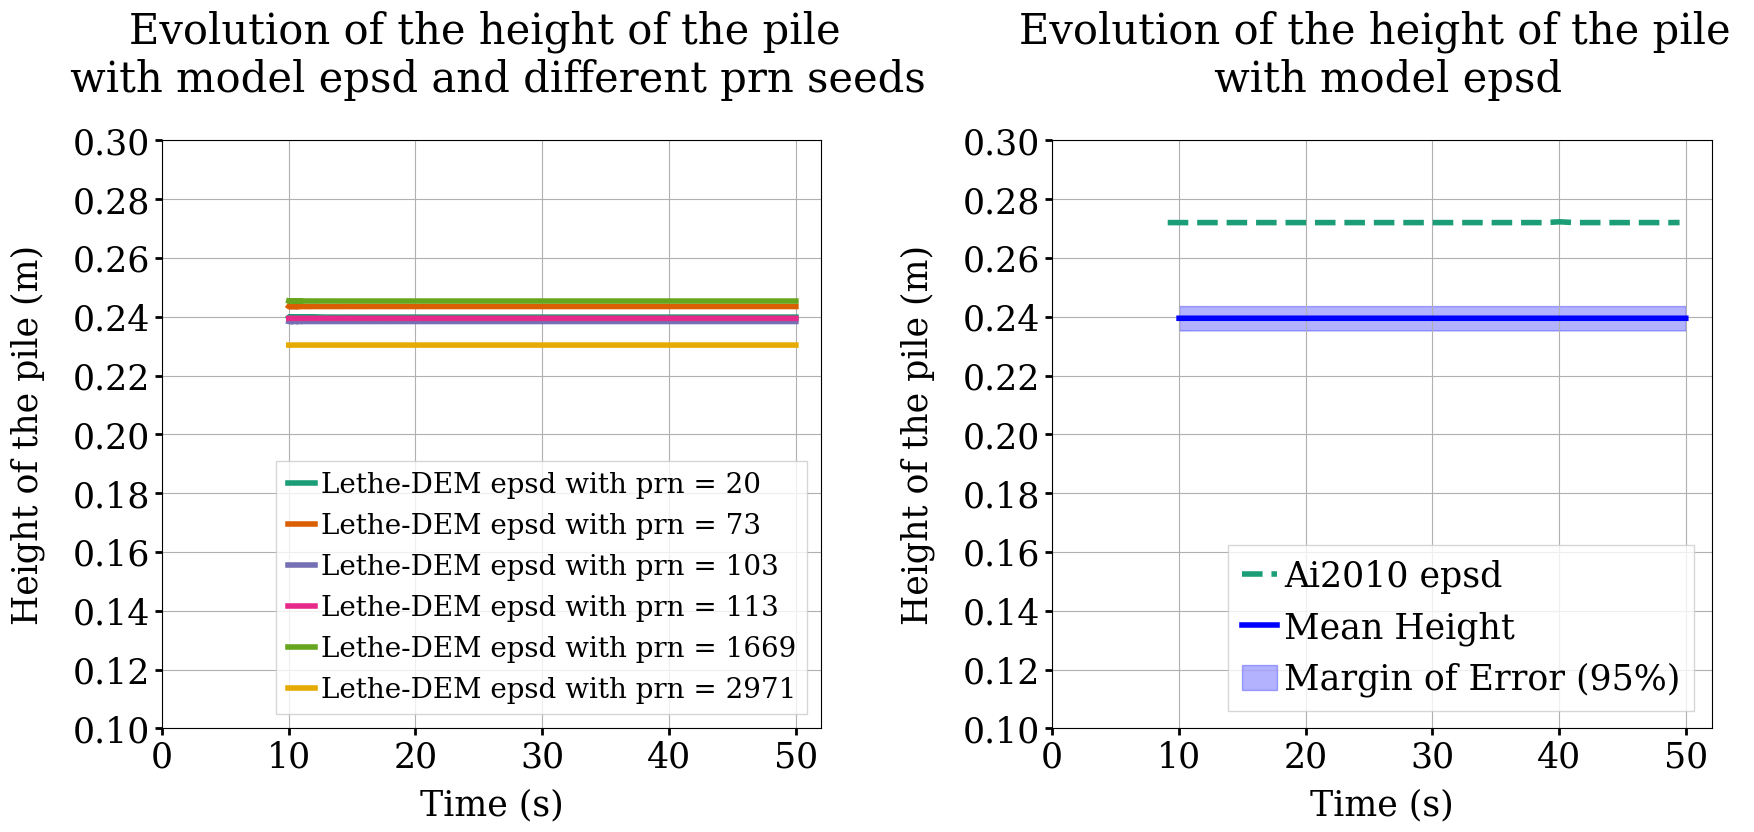
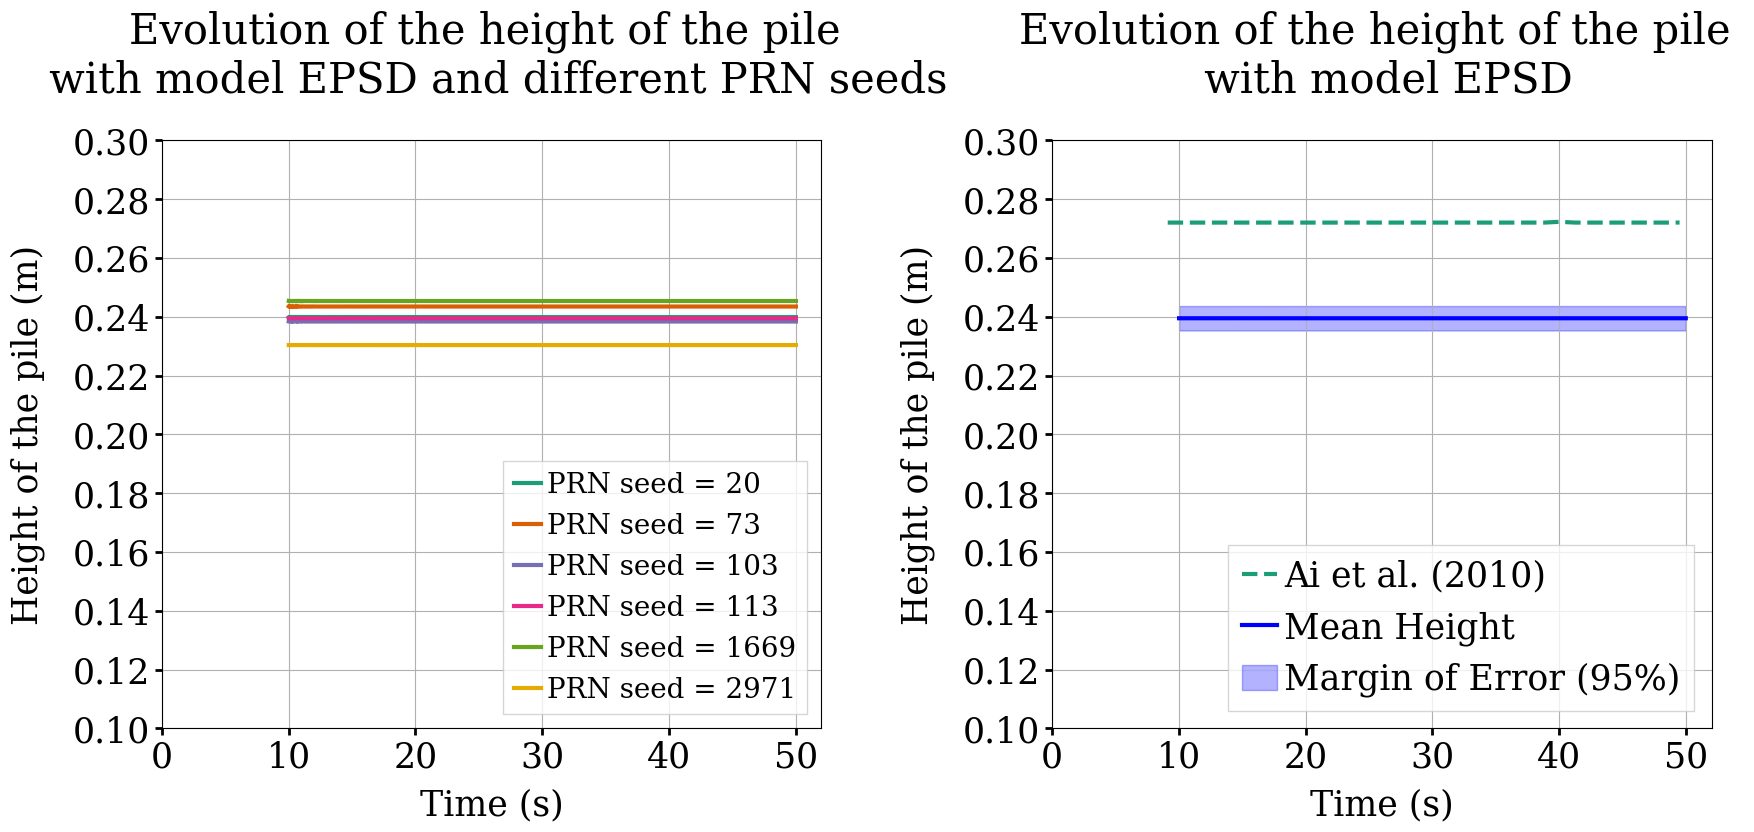
fix doc with comments

diff --git a/examples/dem/2d-sandpile-formation/sandpile-height-comparison.py b/examples/dem/2d-sandpile-formation/sandpile-height-comparison.py
@@ -17,8 +17,8 @@ plt.rcParams['lines.markeredgewidth'] = 2
 plt.rcParams['legend.fancybox'] = False
 plt.rcParams['font.size'] = 20
 plt.rcParams['font.family']='DejaVu Serif'
-plt.rcParams['legend.handlelength']=1.3
-plt.rcParams['lines.linewidth'] = 2
+plt.rcParams['legend.handlelength']=2
+plt.rcParams['lines.linewidth'] = 3
 
 ######################################################################
 

diff --git a/examples/dem/2d-sandpile-formation/sandpile-postprocessing.py b/examples/dem/2d-sandpile-formation/sandpile-postprocessing.py
@@ -17,8 +17,8 @@ plt.rcParams['lines.markeredgewidth'] = 2
 plt.rcParams['legend.fancybox'] = False
 plt.rcParams['font.size'] = 20
 plt.rcParams['font.family']='DejaVu Serif'
-plt.rcParams['legend.handlelength']=1.5
-plt.rcParams['lines.linewidth'] = 2
+plt.rcParams['legend.handlelength']=2
+plt.rcParams['lines.linewidth'] = 3
 
 ######################################################################
 

diff --git a/doc/source/examples/dem/sandpile-formation/sandpile-formation.rst b/doc/source/examples/dem/sandpile-formation/sandpile-formation.rst
@@ -3,7 +3,7 @@ Sandpile Formation
 ==================================
 
 This example simulates the formation of a sandpile using the discrete element method (DEM). 
-The simulation is based on the simulation of J. Ai *et al.* [#Ai2010]_, meant to reproduce the 2D photoelastic sandpile experiments led by Zuriguel *et al.* [#Zuriguel2007]_.
+It is based on the simulation of Ai *et al.* [#Ai2010]_, meant to reproduce the 2D photoelastic sandpile experiments led by Zuriguel *et al.* [#Zuriguel2007]_.
 More information regarding the DEM parameters is given in the Lethe documentation, i.e. `DEM parameters <../../../parameters/dem/dem.html>`_.
 
 
@@ -15,7 +15,7 @@ Features
 - Two-dimensional problem
 - Bi-dispersed particles
 - Floating Wall
-- Postprocessing using `Python <https://www.python.org/>`_, `PyVista <https://docs.pyvista.org/>`_, `lethe_pyvista_tools <https://github.com/chaos-polymtl/lethe/tree/master/contrib/postprocessing>`_, and `ParaView <https://www.paraview.org/>`_.
+- Post-processing using `Python <https://www.python.org/>`_, `PyVista <https://docs.pyvista.org/>`_, `lethe_pyvista_tools <https://github.com/chaos-polymtl/lethe/tree/master/contrib/postprocessing>`_, and `ParaView <https://www.paraview.org/>`_.
 
 
 ----------------------------
@@ -27,16 +27,16 @@ All files mentioned below are located in the example's folder (``examples/dem/2d
 - Geometry file: ``sandpile.geo``
 - Mesh file: ``sandpile.msh``
 - Parameters file: ``sandpile.prm``
-- Postprocessing Python script: ``sandpile-postprocessing.py``
+- Post-processing Python script: ``sandpile-postprocessing.py``
 
 
 -----------------------
 Description of the Case
 -----------------------
 
-In the first stage of the simulation (0-4.5s), particles are filled into the hopper. 
-Then, at 4.5s, particles are discharged through a narrow channel onto a flat surface where a pile is formed.
-We compare the evolution of the height of the pile for the different rolling resistance models with the results obtained by J. Ai *et al.* [#Ai2010]_.
+In the first stage of the simulation (:math:`0-4.5` s), particles are filled into the hopper. 
+Then, at :math:`4.5` s, particles are discharged through a narrow channel onto a flat surface where a pile is formed.
+We compare the evolution of the height of the pile for the different rolling resistance models with the results obtained by Ai *et al.* [#Ai2010]_.
 The angle of repose is also calculated, so as to be compared to the one from the experiment conducted by Zuriguel *et al.* [#Zuriguel2007]_.
 We expect that the Elastic-Plastic Spring-Dashpot model will give closer results to the height and angle from the experiment than the viscous model or the constant torque model. Indeed, the constant torque model produces an oscillation that can prevent the pile from reaching a stable state and the viscous model is not adapted here as the viscous effects are not sufficient to stabilize the pile at its real height.
 
@@ -72,26 +72,25 @@ The geometry follows the one used by Zuriguel *et al.* [#Zuriguel2007]_ and the 
 
   The mesh can be generated using the following line:
 
-   .. code-block:: bash
-      :class: copy-button
+  .. code-block:: text
+    :class: copy-button
 
-      gmsh -2 sandpile.geo
-
+    gmsh -2 sandpile.geo
 
 
 Lagrangian Physical Properties
 ~~~~~~~~~~~~~~~~~~~~~~~~~~~~~~
 
-The 3000 particles are bi-dispersed, with 2500 having a diameter of 6.9 mm and 500 having a diameter of 8.9 mm.
+The :math:`3000` particles are bi-dispersed, with :math:`2500` having a diameter of :math:`6.9` mm and :math:`500` having a diameter of :math:`8.9` mm.
 
-The following properties are chosen according to the J. Ai *et al.* paper:
+The following properties are chosen according to the Ai *et al.* paper:
 
-* Custom distribution of disks with 70% of disks with a 6.9 mm diameter and 30% with an 8.9 mm diameter
-* Density (1056 :math:`kg/m^3`)
-* Young's modulus (4 MPa)
-* Poisson's ratio (0.49)
-* Friction coefficient of particle-particle (0.8)
-* Rolling resistance coefficient of particle-particle (0.3)
+* Custom distribution of disks with :math:`70%` of disks with a :math:`6.9` mm diameter and :math:`30%` with an :math:`8.9` mm diameter
+* Density (:math:`1056\;\text{kg}/\text{m}^3`)
+* Young's modulus (:math:`4` MPa)
+* Poisson's ratio (:math:`0.49`)
+* Friction coefficient of particle-particle (:math:`0.8)``
+* Rolling resistance coefficient of particle-particle (:math:`0.3`)
 
 The same properties were given to the wall as they were not specified in the original article.
 
@@ -121,7 +120,7 @@ The same properties were given to the wall as they were not specified in the ori
 
 .. note::
 
-  Only the value of the restitution coefficient was not given in the reference paper.
+  Only the value of the restitution coefficient was not given in the reference paper but it did not impact much the height of the pile.
 
 
 Model Parameters
@@ -144,8 +143,8 @@ Model Parameters
 
 .. note::
 
-  Only when the Elastic-Plastic Spring-Dashpot (epsd) rolling resistance model is selected should f be specified (f=0 here).
-  More information regarding the DEM Model parameters is given in the Lethe documentation, i.e. `DEM Model Parameters <../../../parameters/dem/model_parameters.html>`_.
+  Only when the EPSD rolling resistance model is selected should the ``f coefficient`` be specified (``f coefficient = 0.0`` here).
+  More information regarding the DEM model parameters is given in the Lethe documentation, i.e. `DEM Model Parameters <../../../parameters/dem/model_parameters.html>`_.
 
 Particle Insertion
 ~~~~~~~~~~~~~~~~~~
@@ -166,7 +165,7 @@ Particles are inserted in an insertion box in the upper part of the hopper. In t
 
 .. note::
 
-  Due partly to the bi-dispersed particle size distribution, changing the prn seed to a different value can lead to different results since it changes the initial configuration of the particles.
+  Due partly to the bi-dispersed particle size distribution, changing the ``prn seed`` to a different value can lead to different results since it changes the initial configuration of the particles.
 
 
 Simulation Control
@@ -186,15 +185,15 @@ The simulation runs for 50 seconds of real time. We output the simulation result
 
 .. note::
 
-  To compare with the results of J.Ai *et al.*, the end time should be set at 50 s or at least 35 s to see the progression of the curve. 
+  To compare with the results of Ai *et al.*, the end time should be set at 50 s or at least 35 s to see the progression of the curve. 
   It can be reduced to 15 s to see the fully formed sandpile but the height of the pile is only measured after 10 s and may continue to decrease after 15 s, particularly with the constant rolling resistance model.
 
 
 Floating Walls
 ~~~~~~~~~~~~~~
 
-Floating wall is handled as explained in the `Silo example <../silo/silo.html>`_.
-In this example, a floating wall is used during the filling stage, from 0 to 4.5s. The wall is located at the bottom of the hopper, before the channel.
+The floating wall is handled as explained in the `Silo example <../silo/silo.html>`_.
+In this example, a floating wall is used during the filling stage, from 0 to :math:`4.5` s. The wall is located at the bottom of the hopper, before the channel.
 
 .. code-block:: text
 
@@ -225,14 +224,17 @@ The simulation can be launched with
 
    mpirun -np 2 lethe-particles sandpile.prm
 
+.. note::
+
+  If the end time is set at :math:`50` s, this example needs a simulation time of approximately 25 minutes on 2 cores.
 
 
 ---------------
 Post-processing
 ---------------
 
-A Python post-processing code called ``sandpile-postprocessing.py`` is provided with this example. It is used to measure the height of the pile at each time set, starting at 10.02s so that the pile is already formed. It also calculates the angle of repose of the pile, based on the last frame.
-It compares the data generated by the simulation to data from J.Ai *et al.* [#Ai2010]_ for the selected rolling resistance model.
+A Python post-processing code called ``sandpile-postprocessing.py`` is provided with this example. It is used to measure the height of the pile at each time set, starting at :math:`10.02` s so that the pile is already formed. It also calculates the angle of repose of the pile, based on the last frame.
+It compares the data generated by the simulation to the one from Ai *et al.* [#Ai2010]_ for the selected rolling resistance model.
 
 It is possible to run the post-processing code with the following line. The arguments are the simulation path, the prm file name and the rolling resistance model used.
 
@@ -241,18 +243,16 @@ It is possible to run the post-processing code with the following line. The argu
 
     python3 sandpile-postprocessing.py  --folder ./ --prm sandpile.prm --rollingmethod epsd
 
-
-The code prints the values of the coefficient of determination :math:`R^2`, the slope (from the regression), and the angle of repose.
-
-.. important::
-
-  The argument --rollingmethod can be either epsd, viscous or constant and should be the same as the "rolling resistance torque method" in the prm file.
-  The argument --regression can be added to plot the least squares regression used to calculate the angle of repose.
-
 .. important::
 
     You need to ensure that ``lethe_pyvista_tools`` is working on your machine. Click `here <../../../tools/postprocessing/postprocessing.html>`_ for details.
 
+.. important::
+
+  The argument `--rollingmethod` can be either epsd, viscous or constant and should be the same as the ``rolling resistance torque method`` in the prm file.
+  The argument `--regression` can be added to plot the least squares regression used to calculate the angle of repose.
+
+The code prints the values of the coefficient of determination :math:`R^2`, the slope (from the regression), and the angle of repose.
 
 When you have launched the simulation and the post-processing (with the right argument) for each rolling resistance model (constant, epsd, viscous), launch the following to compare different models.
 
@@ -282,29 +282,30 @@ The simulation can be visualised using Paraview as seen below.
 Evolution of the Height of the Pile
 ~~~~~~~~~~~~~~~~~~~~~~~~~~~~~~~~~~~
 
-The following image compares the evolution of the height of the pile with the results of J. Ai *et al.*.
+The following figure compares the evolution of the height of the pile with the results of Ai *et al.*
 
 .. figure:: images/figure-height-comparison.png
     :width: 500
     :alt: Height comparison
     :align: center
 
-Considering the height of the pile measured in the experiment by Zuriguel *et al.* was 28 cm, the results with model epsd are satisfying.
-As predicted, with the constant model, the pile takes a lot of time to stabilize but results are close to those obtained by J. Ai *et al*. Regarding the viscous model, the pile does remain constant like with the epsd model but the height is lower than what is observed in the experiments.
+Considering the height of the pile measured in the experiment by Zuriguel *et al.* was :math:`28` cm, the results with model EPSD are satisfying.
+As predicted, with the constant model, the pile takes a lot of time to stabilize but results are close to those obtained by Ai *et al.* Regarding the viscous model, the pile does remain constant like with the EPSD model but the height is lower than what is observed in the experiments.
 
-The difference with J. Ai *et al* simulation could be related to there being two sizes of particles. As they are inserted, the particles are placed randomly according to the prn seed chosen, which can lead to a difference in the height of the pile.
-The next image shows the evolution of the height of the pile with rolling resistance model epsd using different prn seeds.
+The difference with the Ai *et al.* simulation could be due to the fact that there are two sizes of particles. As they are inserted, the particles are placed randomly according to the chosen ``prn seed``, which can lead to a difference in the height of the pile.
+
+The next figure shows the evolution of the height of the pile with rolling resistance model EPSD using different PRN seeds.
 
 .. image:: images/figure-height-different-prn-seeds.png
     :alt: Height comparison
     :align: center
 
-This confirms changing the prn seed leads to different heights but the results remain around 24 cm.
+This confirms changing the PRN seed leads to different heights but the results remain around :math:`24` cm.
 
 -------------
 References
 -------------
 
-.. [#Ai2010] \Jun Ai, Jian-Fei Chen, J. Michael Rotter, and Jin Y. Ooi. "Assessment of Rolling Resistance Models in Discrete Element Simulations." *Powder Technology*, vol. 206, no. 3, 2011, pp. 269-282. ScienceDirect. [Online]. Available: https://www.sciencedirect.com/science/article/pii/S0032591010005164
+.. [#Ai2010] \J. Ai, Jian-Fei Chen, J. Michael Rotter, and Jin Y. Ooi. "Assessment of Rolling Resistance Models in Discrete Element Simulations." *Powder Technology*, vol. 206, no. 3, 2011, pp. 269-282. ScienceDirect. [Online]. Available: https://www.sciencedirect.com/science/article/pii/S0032591010005164
  
 .. [#Zuriguel2007] \I. Zuriguel, T. Mullin, J. M. Rotter. "Effect of Particle Shape on the Stress Dip Under a Sandpile." *Physical Review Letters*, vol. 98, no. 2, 2007, p. 028001. [Online]. Available: https://journals.aps.org/prl/abstract/10.1103/PhysRevLett.98.028001
